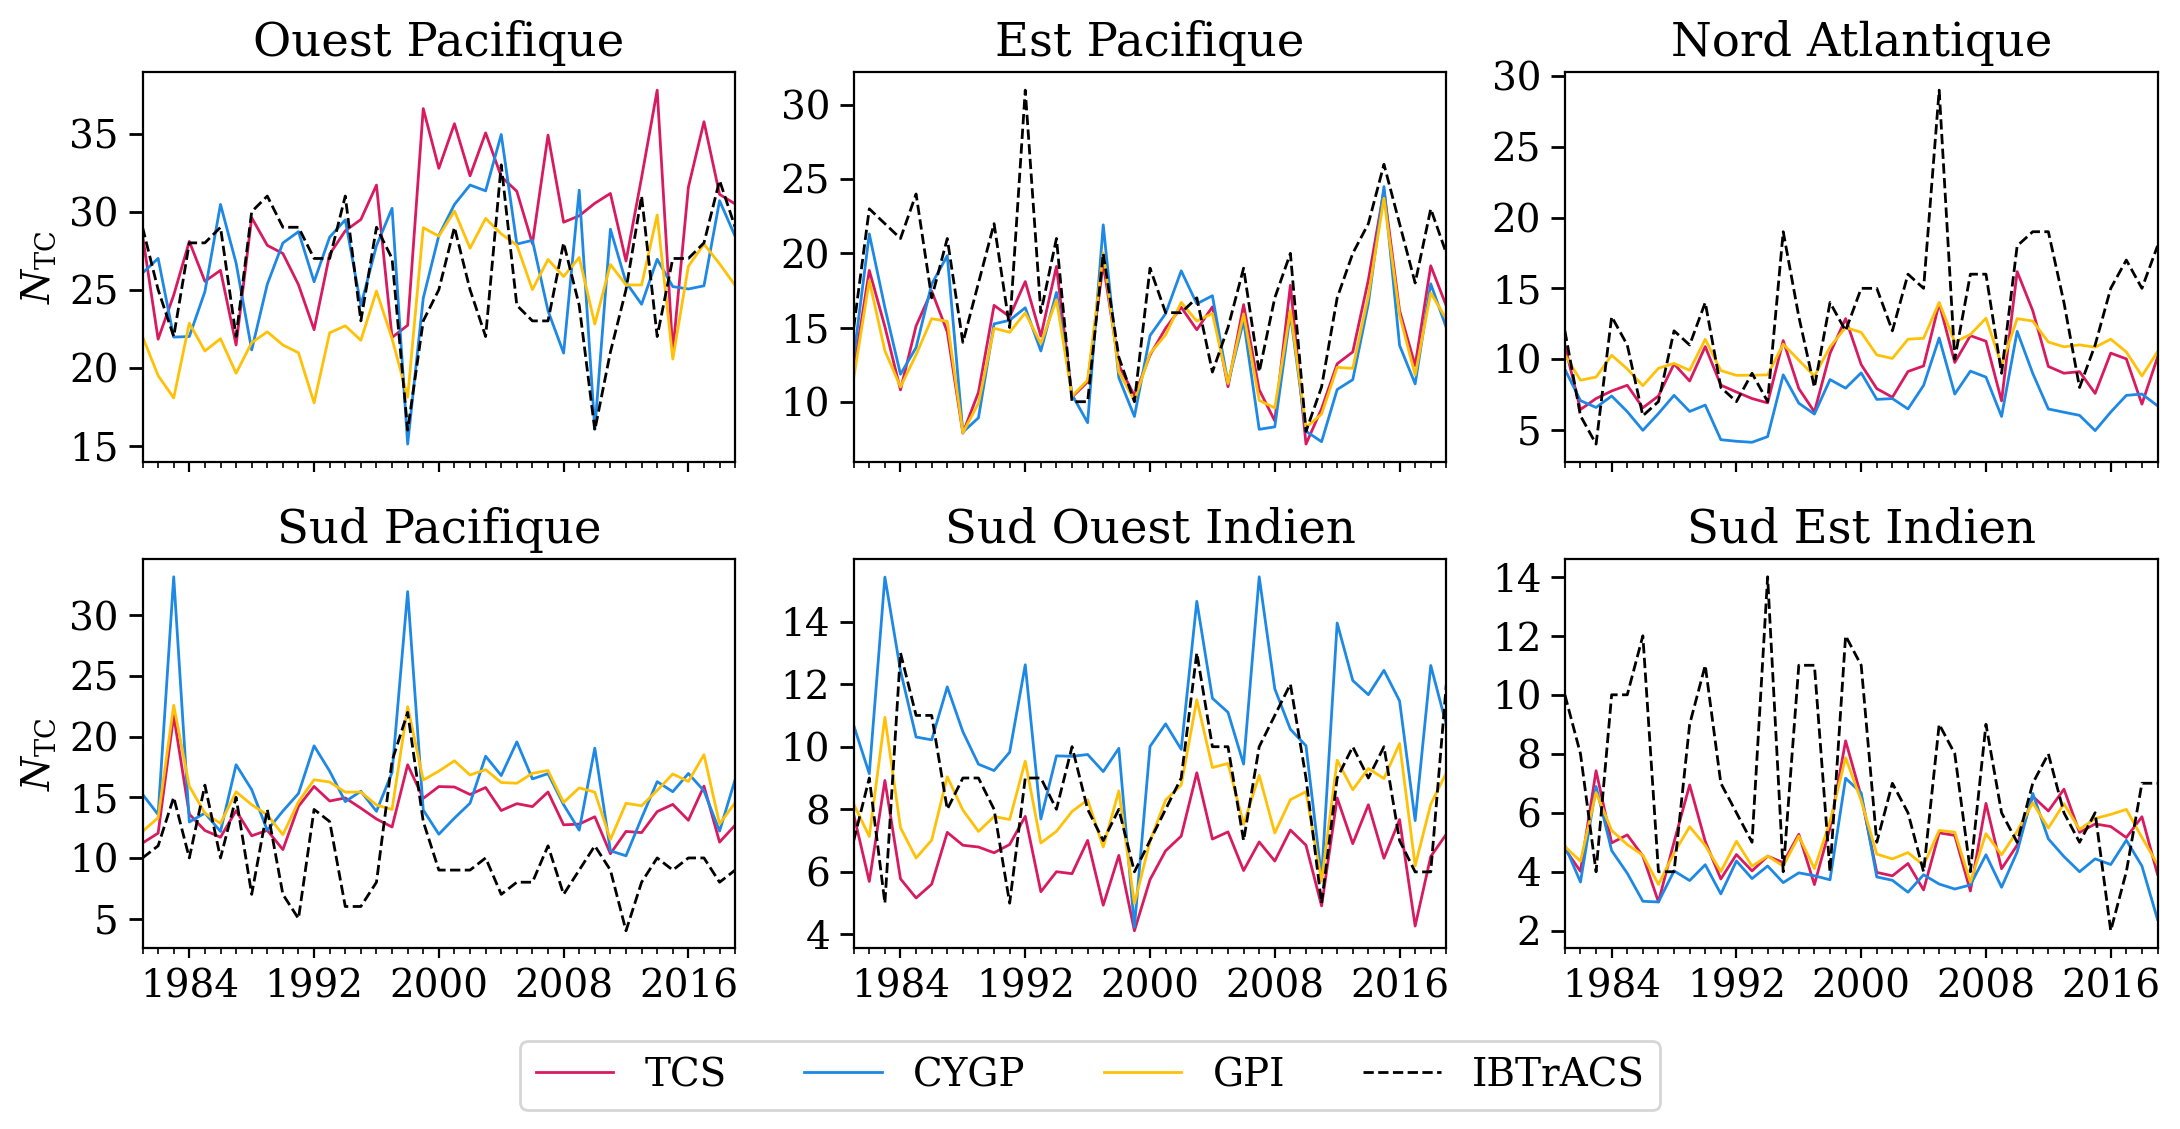
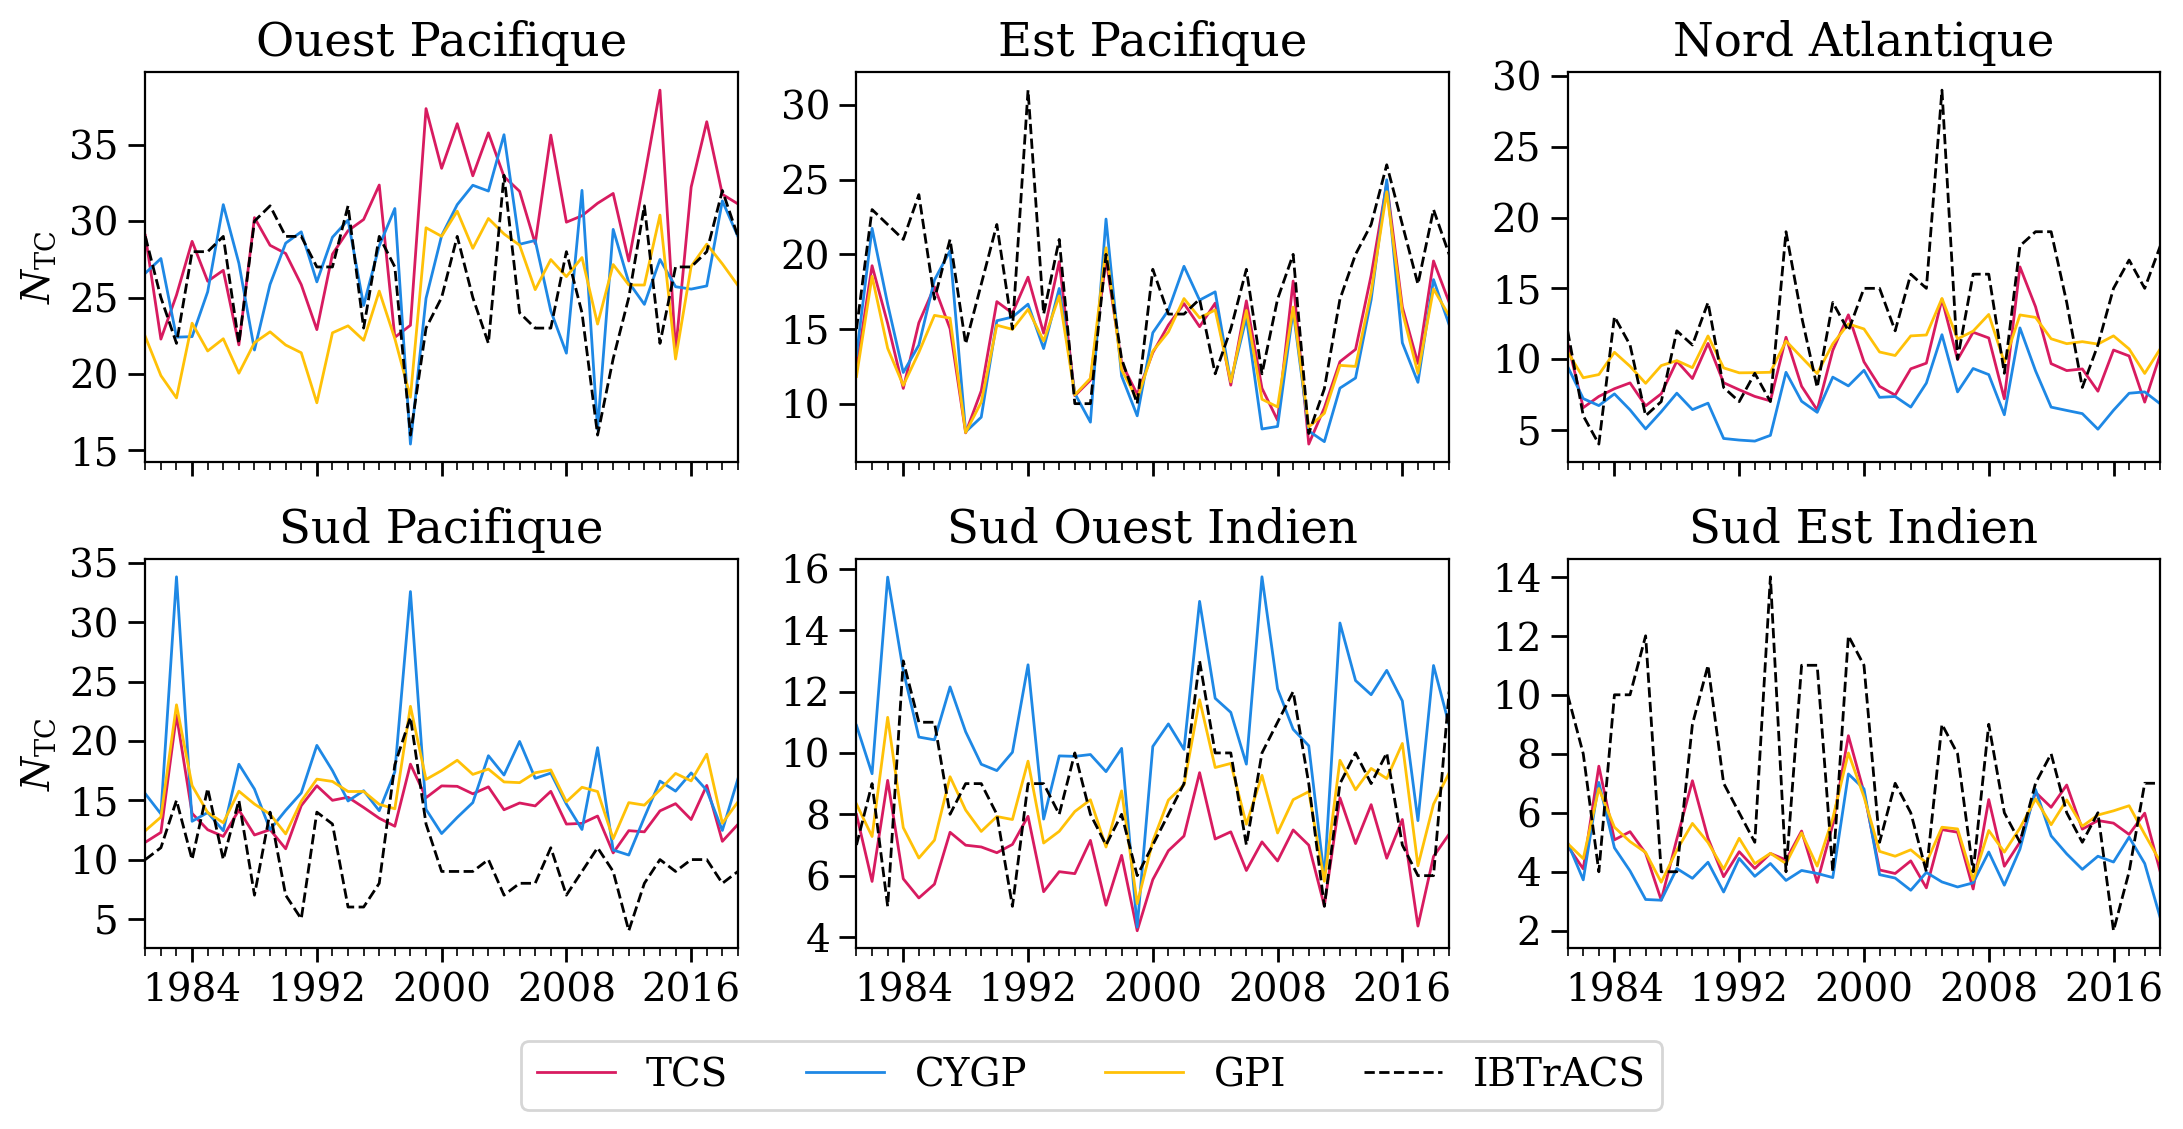
Avancement chapitre 3

diff --git a/Chapitres/chapitre3.tex b/Chapitres/chapitre3.tex
@@ -165,7 +165,7 @@ vorticité absolue à \hPa{850} et enfin le gradient méridional de la composant
 %soulignent que la corrélation de la variabilité interannuelle du DGPI avec les observations est améliorée dans le bassin WPac et dans l'hémisphère sud, mais
 %dégradée dans le bassin EPac.
 
-\subsection{Propriétés des indices et limitations}
+\subsection{Propriétés des indices de cyclogénèses}
 
 Résultat de la diversité des formulations et du choix des prédicteurs définissant les divers indices de cyclogénèses présenté dans la
 \cref{sec:tour_horizon_indices}, la capacité de chacun d'entre eux à simuler l'activité cyclonique moyenne est également variable. Dans cette section sont
@@ -173,7 +173,18 @@ comparés les caractéristiques des trois indices définis précédemment, à sa
 mensuelles ERA5 entre \num{1981} et \num{2019}, interpolées sur une grille régulière de \ang{1} de résolution horizontale. Ils sont ensuite calibrés de façon à
 ce que le nombre de TC moyen par année (calendaire) simulé sur la période soit égal à la fréquence annuelle moyenne observée dans IBTrACS, soit ici \num{84.7}
 TC par an. Pour IBTrACS, on qualifie de cyclogénèses les premières observations des systèmes référencés qui sont renseignés, à un moment de leur cycle de vie,
-comme tempête tropicale ou subtropicale.
+comme tempête tropicale ou subtropicale. Rappelons que les indices de cyclogénèses s'expriment en TC par unité de surface et par unité de temps, si bien qu'il
+est nécessaire d'intégrer spatialement l'indice pour obtenir une quantité homogène à une fréquence. Numériquement, cela implique de calculer la double somme en
+longitude et en latitude sur un bassin géographique donné, pondérée par le cosinus de la latitude. Reprenant l'équation donnée dans la \cref{sec:intro_tracking}
+du \cref{chap:chapitre_1}, on a alors :
+%
+\begin{align*}
+    N_{\mathrm{TC}} &= \iint\limits_{D} \underbrace{\rho(\phi, \lambda)}_{\text{Indice}} \; d\phi \, d\lambda \\
+                    &= \sum_{i} \sum_{j} \cos \phi_j \, \rho (j, i) 
+\end{align*}
+%
+Où l'indice $\rho(i,j)$, défini sur le domaine géographique $D$ représente la valeur de l'indice au point de grille $(j,i)$, caractérisé par sa latitude
+$\phi_j$ et sa longitude $\lambda_i$.
 
 \subsubsection*{Distribution méridionale}
 
@@ -226,7 +237,7 @@ climatologie observée.
 \begin{figure}[tb]
     \centering
     \includegraphics[width=\textwidth]{tcs_cygp_gpi_ibt_clim_mensuel.png}
-    \caption{Climatologie mensuelle de l'activité cyclonique inférée par les trois indices de cyclogénèses définis dans la \cref{sec:tour_horizon_indices} sur
+    \caption{Cycle mensuel de l'activité cyclonique inférée par les trois indices de cyclogénèses définis dans la \cref{sec:tour_horizon_indices} sur
     ERA5 entre 1981 et 2019. Le tracé en tirets noirs indique la climatologie mensuelle observée d'après IBTrACS sur la même période.}
     \label{fig:tcs_cygp_gpi_clim_mensuel}
 \end{figure}
@@ -307,8 +318,14 @@ et enfin du CYGP à \num{0.62}, tandis que le GPI dans le NAtl atteint la plus h
 honorables d'environ \num{0.7} chacun. Le CYGP se distingue aussi dans le SPac avec une corrélation relativement faible de \num{0.57}, mais meilleure que les
 deux autres indices puisque celles-ci valent \num{0.39} et \num{0.35} pour le GPI et le TCS, respectivement. À plus grande échelle, la variabilité interannuelle
 des indices dans l'hémisphère nord est plus proche que dans le sud, avec dans le premier cas, entre \num{0.27} pour le CYGP et \num{0.43} pour le GPI, tandis
-que dans l'hémisphère sud les trois indices indiquent une corrélation quasi-nulle. À l'échelle globale, seul le GPI indique une très maigre corrélation
-de \num{0.17}, les deux autres indices ne présentant une fois de plus aucun lien avec les observations.
+que dans l'hémisphère sud les trois indices indiquent une corrélation quasi-nulle. À l'échelle globale, seul le GPI indique une très maigre corrélation de
+\num{0.17}, les deux autres indices ne présentant une fois de plus aucun lien avec les observations. Séparer le bassin SInd en deux sous-bassins s'avère
+bénéfique pour la corrélation interannuelle des trois indices. Spécifiquement, on définit le bassin Sud Ouest Indien (SIndW) entre \ang{20}E et \ang{90}E de
+longitude, puis le bassin Sud Est Indien (SIndE), correspondant au bassin australien, entre \ang{90} et \ang{135}E. La limite méridionale demeure inchangée,
+entre \ang{0} et \ang{60}S. Ce découpage est plus proche du découpage pratiqué pour la surveillance opérationnelle, comme expliqué dans la
+\cref{sec:bassins_saisons} du \cref{chap:chapitre_1}. Dans ce contexte, le TCS présente une corrélation de \num{0.21} et \num{0.22} pour le SIndW et le SIndE
+respectivement ; \num{0.37} et \num{0.16} pour le CYGP ; \num{0.27} et \num{0.12} pour le GPI. Par conséquent, et pour la suite des travaux présentés dans ce
+document, nous distinguerons toujours les régions SIndW et SIndE.
 
 \begin{figure}[tb]
     \centering
@@ -317,19 +334,44 @@ de \num{0.17}, les deux autres indices ne présentant une fois de plus aucun lie
     \label{fig:tcs_cygp_gpi_variabilite}
 \end{figure}
 
-Séparer le bassin SInd en deux sous-bassins s'avère bénéfique pour la corrélation interannuelle des trois indices. Spécifiquement, on définit le bassin Sud
-Ouest Indien (SIndW) entre \ang{20}E et \ang{90}E de longitude, puis le bassin Sud Est Indien (SIndE), correspondant au bassin australien, entre \ang{90} et
-\ang{135}E. La limite méridionale demeure inchangée, entre \ang{0} et \ang{60}S. Ce découpage est plus proche du découpage pratiqué pour la surveillance
-opérationnelle, comme expliqué dans la \cref{sec:bassins_saisons} du \cref{chap:chapitre_1}. Dans ce contexte, le TCS présente une corrélation de \num{0.21} et
-\num{0.22} pour le SIndW et le SIndE respectivement ; \num{0.37} et \num{0.16} pour le CYGP ; \num{0.27} et \num{0.12} pour le GPI. Par conséquent, et pour la
-suite des travaux présentés dans ce document, nous distinguerons toujours les régions SIndW et SIndE. Enfin, il est important de préciser qu'une bonne
-corrélation ne présage en rien de la capacité d'un indice à simuler une amplitude réaliste de sa variabilité interannuelle. La
-\cref{fig:tcs_cygp_gpi_variabilite} présente les séries temporelles de variabilité interannuelles entre les saisons cycloniques \num{1981} et \num{2019} dont
-sont issues les corrélations du \cref{tab:tcs_cygp_gpi}. Dans le bassin NAtl, où la corrélation interannuelle est supérieure à \num{0.7} pour les indices,
-l'amplitude de la variabilité inférée est moindre par rapport aux observations. Cela est particulièrement vrai pour le GPI, présentant un écart-type de
-\num{1.4} TC contre \num{4.8} TC dans IBTrACS. Le TCS présente une amplitude plus forte que le GPI, mais cette dernière reste toutefois faible, avec un
-écart-type de \num{2.3}, soit une dispersion plus de deux fois petite que la dispersion observée. Certains sursauts observés sont cependant capturés par les
-trois indices. C'est notamment le cas de l'année \num{1995} et \num{2005}.
+Enfin, il est important de préciser qu'une bonne corrélation ne présage en rien de la capacité d'un indice à simuler une amplitude réaliste de sa variabilité
+interannuelle. La \cref{fig:tcs_cygp_gpi_variabilite} présente les séries temporelles de variabilité interannuelles entre les saisons cycloniques \num{1981} et
+\num{2019} dont sont issues les corrélations du \cref{tab:tcs_cygp_gpi}. Dans le bassin NAtl, où la corrélation interannuelle est supérieure à \num{0.7} pour
+les indices, l'amplitude de la variabilité inférée est moindre par rapport aux observations. Cela est particulièrement vrai pour le GPI, présentant un
+écart-type de \num{1.4} TC contre \num{4.8} TC dans IBTrACS. Le TCS présente une amplitude plus forte que le GPI, mais cette dernière reste toutefois faible,
+avec un écart-type de \num{2.3}, soit une dispersion plus de deux fois petite que la dispersion observée. Certains sursauts observés sont cependant capturés par
+les trois indices. C'est notamment le cas de l'année \num{1995} et \num{2005}. Dans le Sud Pacifique et Sud Est Indien, le constat est similaire, avec une forte
+sous-estimation de l'amplitude à l'exception de certains pics comme pour la saison \num{1998} dans le SPac. Le sursaut d'activité simulé par le CYGP est par
+ailleurs anormalement élevé, par rapport aux observations ainsi qu'aux deux autres indices, dépassant \num{32} TC. Cette valeur n'est dépassée qu'en \num{1983}
+avec près de \num{34} TC, le GPI et le TCS étant quant à eux en accord sur une valeur de \num{23} TC et \num{22.2} respectivement. Si ces pics notés dans les
+trois indices correspondent à un maximum local dans les observations également, la saison ne se démarque toutefois pas des autres saisons. En revanche, le
+bassin EPac présente un accord remarquable entre la variabilité simulée et la variabilité observée, avec pour seules exceptions l'année \num{1992}, pic majeur
+dans IBTrACS avec \num{31} systèmes, là où les trois indices indiquent entre \num{18.5} TC pour le TCS et \num{16.3} TC pour le GPI. La variabilité inférée par
+les indices est, de manière générale, nettement moins proche d'IBTrACS avant l'année \num{1993}, puisque le seul désaccord au delà de cette année \num{2000}.
+Notons en effet que la corrélation interannuelle pour le bassin EPac pris à partir de \num{1993} est augmentée d'au moins \num{0.1} par rapport aux valeurs
+reinseignées dans le \cref{tab:tcs_cygp_gpi}, atteignant \num{0.81} pour le TCS. Dans l'EPac, SInd (ouest et est), les trois indices présentent des variabilités
+extrêmement semblables, mis à part les différences dans la fréquence moyenne dans le SIndW. Les différences sont plus marquées dans le WPac, en particulier
+entre le GPI et les deux autres. Le CYGP apparait parfois en opposition du signal indiqué par le TCS et le GPI comme par exemple pour les années \num{1988} et
+\num{2007}.
+
+\subsection{Limitations des indices de cyclogénèses}
+
+Les indices de cyclogénèses couramment utilisés dans la littérature et présentés ici présentent une grande capacité à simuler la répartition spatiale et
+temporelle de l'activité cyclonique moyenne. Spatialement, les indices présentent un accord important dans l'hémisphère sud, aussi bien entre eux qu'avec les
+observations. Dans l'hémisphère nord, la répartition méridionale est plus contrastée et tous les indices présentent un biais équatorial plus ou moins
+conséquent. Le TCS se distingue comme le plus apte à simuler cette distribution, ainsi que la répartition de la fréquence annuelle globale entre les deux
+hémisphères. De plus, le TCS et le GPI sont tous deux capables de simuler un cycle annuel réaliste dans les 6 bassins océaniques majeurs, tandis que le CYGP
+montre des faiblesses dans le NInd et dans le NAtl, où l'activité est fortement sous-estimée, ainsi que dans une mesure bien moindre dans le WPac où avec un
+retard d'un mois. Le TCS présente la qualité de discriminer plus finement la saison active de la saison creuse, résultant en une activité cyclonique hors saison
+réduite par rapport aux deux autres indices. La fréquence annuelle à l'échelle régionale, ou plus exactement sa proximité avec la fréquence observée, est
+variable selon les bassins, mais les trois indices apparaissent comme capables de simuler le bon ordre de grandeur pour chacun des bassins (à l'exception NInd,
+probablement en raison du manque de fiabilité des observations dans cette région). Le TCS se démarque toutefois comme produisant la fréquence annuelle la plus
+réaliste dans 5 des 8 échelles spatiales considérées.
+
+À l'échelle interannuelle, les performances des trois indices apparaissent comme nettement moins bonnes. À l'exception de certains bassins, tels que le EPac et
+le NAtl, la corrélation interannuelle demeure très faible, voire inexistante. De plus, les indices peinent souvent à simuler une amplitude réaliste de cette
+variabilité. Ces caractéristiques ne concernent pas seulement la réanalyse ERA5 et sont connues de longue date
+\parencite{watterson_seasonal_1995,camargo_tropical_2007,tippett_poisson_2011,menkes_comparison_2012,cavicchia_tropical_2023a}. 
 
 %--------------------------------------
 \section{Exploration du potentiel prédictif d'un indice à l'échelle saisonnière}
